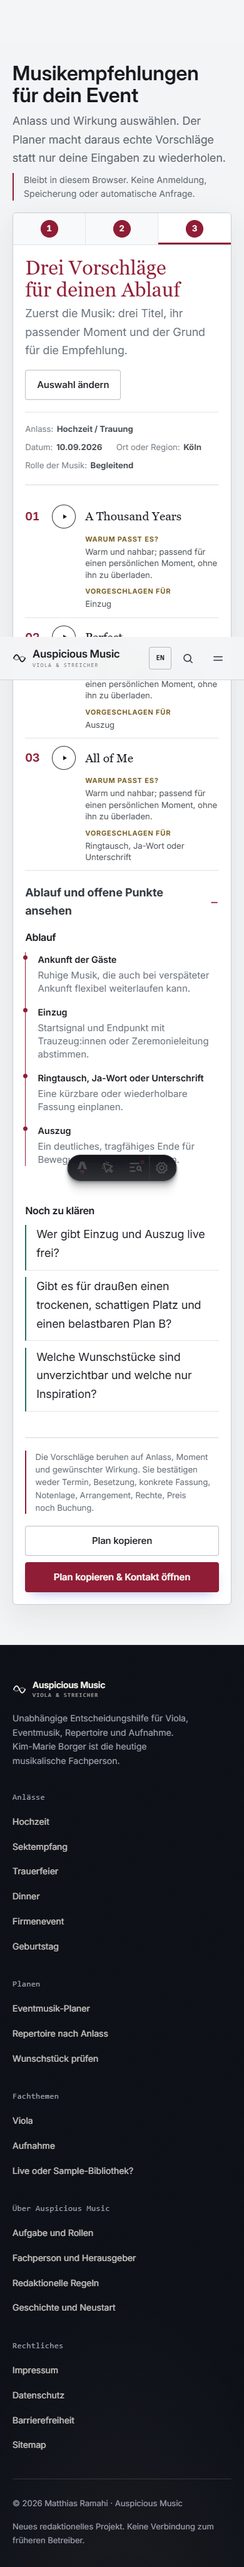
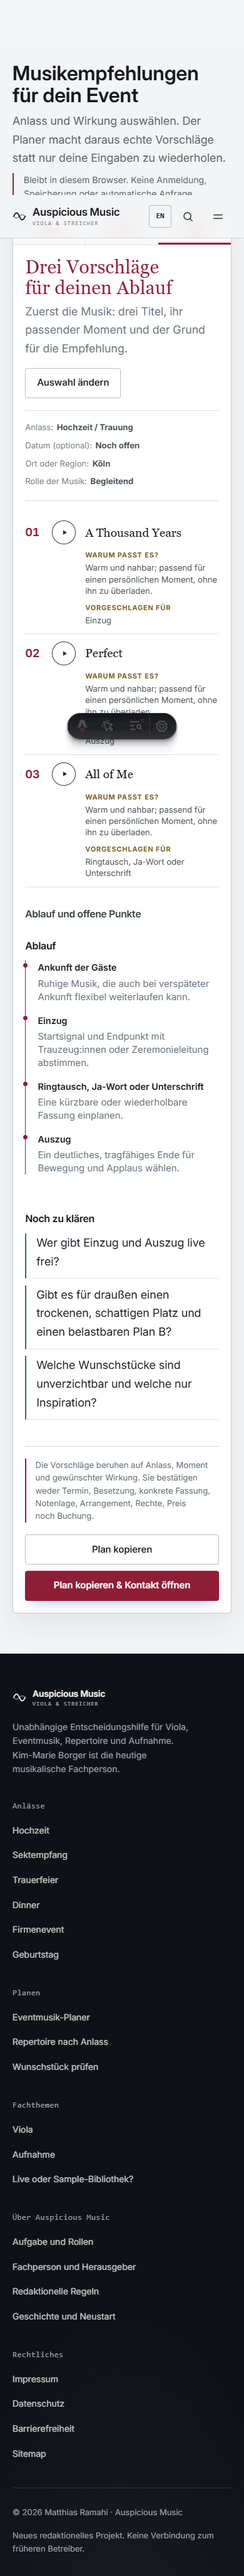
feat: clarify music planning journey

diff --git a/docs/seo/SITE_PURPOSE_PAGE_ACTIONS_2026-08-28.md b/docs/seo/SITE_PURPOSE_PAGE_ACTIONS_2026-08-28.md
@@ -1,0 +1,81 @@
+# Site purpose and page actions
+
+Date: 28 August 2026
+
+## Product decision
+
+Auspicious Music is a German-first, tool-first planning product for ceremony and event music. It is not only a planner: the useful supporting layers are occasion-specific preparation, repertoire and requested-piece decisions, viola context and a deliberately smaller string-recording branch. Kim-Marie Borger remains the current musical expert and the destination for personal review and booking. The site does not duplicate her commercial service pages.
+
+Primary journey: occasion -> three recommendations -> visible running order and open questions -> copied plan -> Kim-Marie's contact section.
+
+Non-goals: a broad music magazine, generic event-law or GEMA advice, photography or videography services, city-page fan-out, restored Ableton/download content, or pages created only to hold keywords.
+
+## Evidence register
+
+| Label | Evidence | Decision impact |
+| --- | --- | --- |
+| Verified | The production sitemap contains 30 canonical indexable URLs; 17 broad legacy or weak-fit routes are already noindex and excluded. | Work within the focused core instead of rebuilding the old magazine. |
+| Verified | The planner can generate three moment-linked repertoire suggestions and a running order without a known date. | Date is optional and defaults to "Noch offen". |
+| Verified | The user found the compact result useful when the running order and open questions were visible. | Supporting result details remain visible instead of hiding behind disclosure UI. |
+| Verified | The maintained repertoire and occasion profiles support six event occasions plus separate lesson material. | Six occasion pages feed one shared planner; lessons remain outside the event journey. |
+| Supported | A requested-piece preparation tool solves a distinct question before personal review. | Keep it as a contextual secondary tool, not a competing primary funnel. |
+| Supported | Music-specific recording guidance has a distinct musician/producer audience and topical continuity. | Keep a small secondary branch, clearly separated from event planning. |
+| Hypothesis | Occasion pages can attract qualified planning queries and improve planner starts. | Measure page-to-planner starts before expanding the cluster. |
+| Experiment | Run the expanded homepage and lower-friction planner for 30 days. | Compare planner starts, completions and contact handoffs with the prior baseline when authenticated data exists. |
+| Rejected | Generic GEMA prompts in the requested-piece workflow help the typical private-event visitor. | Remove them from the tool; special recording, livestream or publication questions are separate. |
+| Rejected | More generic tools or explanatory pages automatically make the site stronger. | Add a URL only for a distinct maintained user job and proof requirement. |
+
+## Page-action matrix
+
+| URL | Primary user job | Role | Action |
+| --- | --- | --- | --- |
+| `/` | Understand the product and choose the next planning step | Product hub | Strengthen with outcomes, occasion routes, tool choice and concise answers |
+| `/en/` | Enter the same product in English | Localized product hub | Keep structurally aligned with German home |
+| `/tools/eventmusik-planer/` | Create three suggestions and a usable running order | Primary tool | Strengthen; optional date, visible full result |
+| `/en/tools/event-music-planner/` | Complete the same planner in English | Localized primary tool | Mirror the German behavior |
+| `/eventmusik/` | Choose an occasion and understand the planning method | Topic hub | Keep and route to planner |
+| `/eventmusik/hochzeit/` | Plan ceremony moments and music choices | Occasion guide | Keep |
+| `/eventmusik/sektempfang/` | Plan flexible reception music | Occasion guide | Keep |
+| `/eventmusik/trauerfeier/` | Prepare music for a farewell with care | Occasion guide | Keep |
+| `/eventmusik/dinner/` | Place music around service and speeches | Occasion guide | Keep |
+| `/eventmusik/firmenevent/` | Separate reception, background and featured music | Occasion guide | Keep |
+| `/eventmusik/geburtstag/` | Prepare surprise, gift or closing music | Occasion guide | Keep |
+| `/eventmusik/live-streicher-draussen/` | Decide shelter, placement and Plan B | Practical guide | Keep |
+| `/repertoire/` | Explore maintained titles by function and occasion | Reference hub | Keep |
+| `/tools/wunschstueck-check/` | Turn one personal title into a musical review brief | Secondary tool | Keep; remove generic legal/GEMA workflow |
+| `/viola/` | Understand where viola fits in event and recording contexts | Expert hub | Keep; replace abstract motif with useful summary |
+| `/viola/viola-oder-violine/` | Compare instruments for a real musical role | Decision guide | Keep |
+| `/recording/` | Enter the smaller string-recording branch | Secondary hub | Keep, secondary on homepage |
+| `/recording/acoustic-instruments/recording-viola-at-home/` | Prepare a repeatable home recording | Recording guide | Keep |
+| `/recording/acoustic-instruments/viola-microphone-placement/` | Choose a microphone starting position | Recording guide | Keep |
+| `/sound-design/when-to-record-strings-instead-of-using-a-library/` | Choose live, sampled or hybrid strings | Recording decision guide | Keep |
+| `/tools/streicheraufnahme-briefing/` | Create a handoff brief for a string session | Recording tool | Keep |
+| `/music-for-media/planning-live-viola-for-a-wedding-ceremony/` | Plan a wedding ceremony in English | English support guide | Keep; do not fan out more translations without demand |
+| `/about/` | Understand purpose, roles and boundaries | Trust page | Keep |
+| `/about/history-and-relaunch/` | Understand domain history and new ownership | History and disclosure | Keep |
+| `/about/editorial-policy/` | Understand sourcing and correction rules | Trust page | Keep |
+| `/authors/` | Identify current expert and publisher | Entity page | Keep |
+| `/contact/` | Reach editorial, rights or accessibility contact | Utility page | Keep |
+| `/legal/` | Identify the legal operator | Legal page | Keep |
+| `/privacy/` | Understand actual data flows | Legal page | Keep and synchronize with tool behavior |
+| `/accessibility/` | Find accessibility status and contact | Utility/legal page | Keep |
+
+## Noindex and excluded routes
+
+Keep the existing noindex policy for Ableton, general production, generic sound-design, music-for-media hub, calculators, glossary, journal, contribute, lessons, download, services, search, internal QA and error/status routes. They may serve a direct visitor or historical reference, but they are not part of the current search or navigation strategy. No catch-all redirect.
+
+## Hub and cluster map
+
+```text
+Home
+├── Event-music planner -> copied plan -> Kim-Marie contact
+├── Event music hub -> six occasion guides -> planner preset
+├── Repertoire -> requested-piece check -> personal review
+├── Viola -> instrument comparison -> event or recording decision
+├── Recording (secondary) -> two guides + live/sample + briefing tool
+└── About -> roles, editorial rules, history, contact and legal
+```
+
+## Measurement gate
+
+For 30 days, measure planner starts, step-two reach, completed plans and contact handoffs separately. Review page-to-planner starts for the six occasion pages. Do not publish another occasion, city, legal or generic music page until query or user evidence identifies a distinct job. Search Console submission and conversion baselines remain NOT PROVEN unless an authenticated session is checked.

diff --git a/PROJECT_BRIEF.md b/PROJECT_BRIEF.md
@@ -16,6 +16,21 @@ It is a modern successor on a historic domain, not a continuation of the former 
 6. Connect relevant visitors to Kim-Marie Borger's current official contact section without duplicating her commercial booking pages or unsupported service claims.
 7. Preserve only exact, legitimate historic references with transparent rights and availability notes.
 
+## Product shape
+
+Auspicious Music is a tool-first planning product, not a single-tool microsite and not a general music magazine.
+
+The primary journey is:
+
+1. Start with an occasion or open the planner directly.
+2. Receive three reasoned repertoire suggestions, a visible running order and the questions still worth discussing.
+3. Explore repertoire or prepare one requested piece only when that solves the visitor's next decision.
+4. Copy the reviewed plan and continue to Kim-Marie Borger's official contact section for the personal check.
+
+The occasion pages explain only what materially changes between wedding, reception, funeral, dinner, corporate event and birthday. The viola pages explain instrument-specific choices. Recording remains a smaller specialist branch for musicians and producers; it must not compete with the event-planning journey on the homepage.
+
+The planner is deliberately low-friction. A date is optional and defaults to "not decided". Supporting running-order details remain visible in the result. Generic event-law, GEMA, photography, videography, Ableton and broad production topics do not belong in the primary journey.
+
 ## Core routes
 
 - `/viola/`
